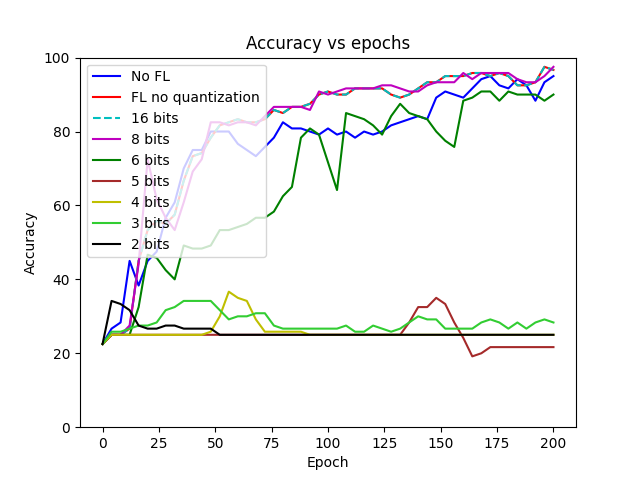
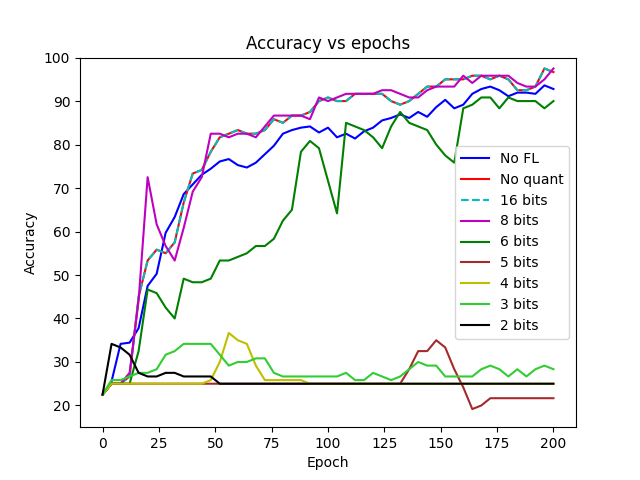
New experiments

diff --git a/main.py b/main.py
@@ -3,9 +3,7 @@ import random
 from argparse import Namespace
 
 import torch
-import torch.nn.functional as F
 import torch.optim as optim
-import torchaudio
 from torch.utils.data import Subset
 from torchvision import datasets, transforms
 
@@ -19,7 +17,8 @@ from torchaudio.transforms import MFCC
 from collections.abc import Callable
 from typing import TypeAlias
 
-BitsFn: TypeAlias = str | Callable[[int, int], int|None]
+BitsFn: TypeAlias = str | Callable[[int, int], int | None]
+
 
 class Experiment:
     def __init__(self, args: Namespace):
@@ -51,12 +50,15 @@ class Experiment:
         # self.fl_experiment_batches = 30
 
         self.net = KWSNet
-        transform = transforms.Compose([
-            MFCC(n_mfcc=13, melkwargs={"n_mels": 32}),
+        self.dataset_transform = transforms.Compose([
+            MFCC(n_mfcc=13, melkwargs={
+                "n_mels": 32,
+                "hop_length": 200  # Default 200, increases accuracy but requires a larger input layer
+            }),
             lambda x: x.flatten(),
         ])
-        self.train_dataset = KWSDataset(True, transform=transform)
-        test_dataset = KWSDataset(False, transform=transform)
+        self.train_dataset_iid = KWSDataset(True, transform=self.dataset_transform, iid=True)
+        test_dataset = KWSDataset(False, transform=self.dataset_transform)
         self.loss_fn = torch.nn.CrossEntropyLoss()
         self.accuracy_loss_experiment_samples = 200
         self.samples_per_fl_batch = 4
@@ -79,9 +81,11 @@ class Experiment:
         np.random.set_state(self.numpy_state)
         random.setstate(self.random_state)
 
-    def train(self, model, rng, optimizer):
-        train_loader = torch.utils.data.DataLoader(Subset(self.train_dataset, list(rng)),
-                                                   **self.train_kwargs)  # Max 60k
+    def train(self, model, rng, optimizer, dataset):
+        train_loader = torch.utils.data.DataLoader(
+            Subset(dataset, list(rng)),
+            **self.train_kwargs
+        )
 
         model.train()
         for batch_idx, (data, target) in enumerate(train_loader):
@@ -153,7 +157,7 @@ class Experiment:
         self.reset_state()
 
         models, optimizers = self.init_models(1, {'hl_size': 20})
-        self.train(models[0], range(0, self.accuracy_loss_experiment_samples), optimizers[0])
+        self.train(models[0], range(0, self.accuracy_loss_experiment_samples), optimizers[0], self.train_dataset_iid)
         # original_accuracy = self.test(models[0])
 
         original_weights = models[0].get_flat_weights()
@@ -173,7 +177,8 @@ class Experiment:
         plt.title("Accuracy drop vs quantization bits")
         plt.savefig(f"plots/accuracy_loss.png")
 
-    def batch_training(self, models, optimizers, send_bits_fn: BitsFn, do_fl: bool = True, receive_bits_fn: BitsFn|str = 'unset'):
+    def batch_training(self, models, optimizers, send_bits_fn: BitsFn, dataset, do_fl: bool = True,
+                       receive_bits_fn: BitsFn | str = 'unset'):
         if receive_bits_fn == 'unset': receive_bits_fn = send_bits_fn
 
         x = [0]
@@ -183,11 +188,16 @@ class Experiment:
             for model_index in range(len(models)):
                 first_sample = start + (self.samples_per_fl_batch * model_index)
                 last_sample = start + (self.samples_per_fl_batch * (model_index + 1))
-                self.train(models[model_index], range(first_sample, last_sample), optimizers[model_index])
+                self.train(models[model_index], range(first_sample, last_sample), optimizers[model_index], dataset)
 
             x.append((batch_index + 1) * self.samples_per_fl_batch)
-            if do_fl: self.do_fl(models, send_bits_fn(batch_index, self.fl_batches), receive_bits_fn(batch_index, self.fl_batches))
-            accuracies.append(self.test(models[0]))
+            if do_fl:
+                self.do_fl(models, send_bits_fn(batch_index, self.fl_batches),
+                           receive_bits_fn(batch_index, self.fl_batches))
+                accuracy = self.test(models[0])
+            else:
+                accuracy = sum([self.test(model) for model in models]) / len(models)
+            accuracies.append(accuracy)
 
         return x, accuracies
 
@@ -195,12 +205,12 @@ class Experiment:
         plt.figure()
         plt.xlabel("Epoch")
         plt.ylabel("Accuracy")
-        plt.ylim(0, 100)
+        plt.ylim(top=100, bottom=15)
         plt.title("Accuracy vs epochs")
 
         options = [
             {'do_fl': False, 'bits': None, 'label': 'No FL', 'color': 'b'},
-            {'do_fl': True, 'bits': None, 'label': 'FL no quantization', 'color': 'r'},
+            {'do_fl': True, 'bits': None, 'label': 'No quant', 'color': 'r'},
             {'do_fl': True, 'bits': 16, 'label': '16 bits', 'color': 'c--'},
             {'do_fl': True, 'bits': 8, 'label': '8 bits', 'color': 'm'},
             {'do_fl': True, 'bits': 6, 'label': '6 bits', 'color': 'g'},
@@ -213,10 +223,10 @@ class Experiment:
         for case in options:
             self.reset_state()
             models, optimizers = self.init_models(num_models, {'hl_size': 20})
-            x, accuracies = self.batch_training(models, optimizers, lambda i, nb: case['bits'], do_fl=case['do_fl'])
+            x, accuracies = self.batch_training(models, optimizers, lambda i, nb: case['bits'], self.train_dataset_iid, do_fl=case['do_fl'])
             plt.plot(x, accuracies, case['color'], label=case['label'])
 
-        plt.legend()
+        plt.legend(loc='center right')
         plt.savefig(f"plots/accuracy_vs_epochs_vs_quant_bits.png")
 
     def early_vs_late_quantization(self, num_models: int, low_bits: int, high_bits: int):
@@ -227,15 +237,15 @@ class Experiment:
         plt.title("Early vs late quantization")
 
         options = [
-            {'label': 'Fixed low quantization', 'bits': lambda i, nb: low_bits, 'color': 'r--'},
-            {'label': 'Fixed high quantization', 'bits': lambda i, nb: high_bits, 'color': 'g--'},
-            {'label': f"Late quantization ({high_bits} → {low_bits})", 'bits': lambda i, nb: high_bits if i <= nb / 3 else low_bits, 'color': 'b-'},
+            {'label': 'Fixed high quantization (6)', 'bits': lambda i, nb: low_bits, 'color': 'r--'},
+            {'label': 'Fixed low quantization (8)', 'bits': lambda i, nb: high_bits, 'color': 'g--'},
             {'label': f"Early quantization ({low_bits} → {high_bits})", 'bits': lambda i, nb: low_bits if i <= nb / 3 else high_bits, 'color': 'm-'},
+            {'label': f"Late quantization ({high_bits} → {low_bits})", 'bits': lambda i, nb: high_bits if i <= nb / 3 else low_bits, 'color': 'b-'},
         ]
         for case in options:
             self.reset_state()
             models, optimizers = self.init_models(num_models, {'hl_size': 20})
-            x, accuracies = self.batch_training(models, optimizers, case['bits'])
+            x, accuracies = self.batch_training(models, optimizers, case['bits'], self.train_dataset_iid)
             plt.plot(x, accuracies, case['color'], label=case['label'])
 
         plt.legend()
@@ -244,7 +254,7 @@ class Experiment:
     def quantized_weights_histogram_experiment(self, num_models):
         self.reset_state()
         models, optimizers = self.init_models(num_models, {'hl_size': 20})
-        self.batch_training(models, optimizers, lambda i, nb: None)
+        self.batch_training(models, optimizers, lambda i, nb: None, self.train_dataset_iid)
 
         fig, axs = plt.subplots(1, 3, tight_layout=True, figsize=(9, 3))
 
@@ -263,13 +273,15 @@ class Experiment:
         plt.title("Symmetric vs Asymmetric quantization")
 
         options = [
-            {'label': 'Symmetric quantization', 'send_bits': 8, 'receive_bits': 8, 'color': 'r--'},
-            {'label': 'Asymmetric quantization', 'send_bits': 8, 'receive_bits': 6, 'color': 'g--'},
+            {'label': 'Symmetric quantization (8)', 'send_bits': 8, 'receive_bits': 8, 'color': 'r--'},
+            {'label': 'Asymmetric quantization (8 → 6)', 'send_bits': 8, 'receive_bits': 6, 'color': 'g--'},
+            {'label': 'Asymmetric quantization (6 → 8)', 'send_bits': 6, 'receive_bits': 8, 'color': 'b--'},
         ]
         for case in options:
             self.reset_state()
             models, optimizers = self.init_models(num_models, {'hl_size': 20})
-            x, accuracies = self.batch_training(models, optimizers, lambda i, nb: case['send_bits'], receive_bits_fn=lambda i, nb: case['receive_bits'])
+            x, accuracies = self.batch_training(models, optimizers, lambda i, nb: case['send_bits'], self.train_dataset_iid,
+                                                receive_bits_fn=lambda i, nb: case['receive_bits'])
             plt.plot(x, accuracies, case['color'], label=case['label'])
         plt.legend()
         plt.savefig(f"plots/asymmetric_quantization.png")
@@ -283,15 +295,71 @@ class Experiment:
 
         options = [
             {'label': 'Fixed 8-bit quantization', 'bits': lambda i, nb: 8, 'color': 'r--'},
-            {'label': 'Random quantization', 'bits': lambda i, nb: random.randint(5, 12), 'color': 'g--'},
+            {'label': 'Random quantization (5-8 bits)', 'bits': lambda i, nb: random.randint(5, 8), 'color': 'g'},
+            {'label': 'Random quantization (6-8 bits)', 'bits': lambda i, nb: random.randint(6, 8), 'color': 'b'},
         ]
         for case in options:
             self.reset_state()
             models, optimizers = self.init_models(num_models, {'hl_size': 20})
-            x, accuracies = self.batch_training(models, optimizers, case['bits'])
+            x, accuracies = self.batch_training(models, optimizers, case['bits'], self.train_dataset_iid)
             plt.plot(x, accuracies, case['color'], label=case['label'])
         plt.legend()
         plt.savefig(f"plots/random_quantization.png")
+
+    def nn_size_experiment(self, num_models: int):
+        plt.figure()
+        plt.ylabel("Accuracy")
+        plt.ylim(0, 100)
+        plt.title("Final accuracy depending on HL size and quantization bits")
+
+        for y in range(0, 100, 5):
+            plt.axhline(y=y, color="#EEE", zorder=1)
+
+        quantization_bits = [16, 8, 6, 5]
+        hl_sizes = [10, 15, 20, 25]
+
+        width, x = 0.15, np.arange(len(quantization_bits))
+        for i, hl_size in enumerate(hl_sizes):
+            accuracies = []
+            for bits in quantization_bits:
+                self.reset_state()
+                models, optimizers = self.init_models(num_models, {'hl_size': hl_size})
+                _, acc = self.batch_training(models, optimizers, lambda i, nb: bits, self.train_dataset_iid)
+                accuracies.append(acc[-1])
+            plt.bar(x + (width * i), accuracies, width, label=f"{hl_size} neurons", zorder=2)
+
+        plt.xticks(x + (width * len(hl_sizes) / 2), [f"{bits} bits" for bits in quantization_bits])
+
+        plt.legend(loc='upper right')
+        plt.savefig(f"plots/nn_size.png")
+
+    def iid_vs_non_experiment(self, num_models: int):
+        plt.figure()
+        plt.xlabel("Epoch")
+        plt.ylabel("Accuracy")
+        plt.ylim(top=100, bottom=15)
+        plt.title("Accuracy vs epochs")
+
+        train_dataset_non_iid_2 = KWSDataset(True, transform=self.dataset_transform, iid=2)
+        train_dataset_non_iid_3 = KWSDataset(True, transform=self.dataset_transform, iid=3)
+        train_dataset_non_iid_4 = KWSDataset(True, transform=self.dataset_transform, iid=4)
+
+        options = [
+            {'dataset': self.train_dataset_iid, 'bits': None, 'label': 'IID', 'color': 'r--'},
+            {'dataset': train_dataset_non_iid_2, 'bits': None, 'label': 'Non-IID 2', 'color': 'g'},
+            {'dataset': train_dataset_non_iid_3, 'bits': None, 'label': 'Non-IID 3', 'color': 'b'},
+            {'dataset': train_dataset_non_iid_4, 'bits': None, 'label': 'Non-IID 4', 'color': 'm'},
+        ]
+
+        for case in options:
+            self.reset_state()
+            models, optimizers = self.init_models(num_models, {'hl_size': 20})
+            x, accuracies = self.batch_training(models, optimizers, lambda i, nb: 8, case['dataset'])
+            plt.plot(x, accuracies, case['color'], label=case['label'])
+
+        plt.legend()
+        plt.savefig(f"plots/iid_vs_non.png")
+
 
 def main():
     parser = argparse.ArgumentParser()
@@ -310,6 +378,9 @@ def main():
     experiment.quantized_weights_histogram_experiment(3)
     experiment.asymmetric_quantization_experiment(3)
     experiment.random_quantization_experiment(3)
+    experiment.nn_size_experiment(3)
+    experiment.iid_vs_non_experiment(3)
+
 
 if __name__ == '__main__':
     main()

diff --git a/KWSDataset.py b/KWSDataset.py
@@ -1,7 +1,6 @@
 import json
 import os
 import random
-
 from torch import Tensor
 from torch.utils.data import Dataset
 
@@ -10,32 +9,34 @@ class KWSDataset(Dataset):
     keywords = ["montserrat", "pedraforca", "vermell", "blau"]
     samples_folder = "./data/keywords"
     test_samples = 120
+    samples_per_keyword = 180
 
-    def __init__(self, train: bool, transform=None):
-        files = []
-        for i, word in enumerate(self.keywords):
+    # iid: When 1, samples will be iid. Larger numbers use the same keyword as many times.
+    def __init__(self, train: bool, transform=None, iid: int = 1):
+        self.transform = transform
+
+        num_files = iid
+
+        all_samples = [None] * (len(self.keywords) * self.samples_per_keyword)
+        for word_i, word in enumerate(self.keywords):
             file_list = os.listdir(f"{self.samples_folder}/{word}")
             random.shuffle(file_list)
-            files.append(list(map(lambda f: f"{word}/{f}", file_list)))
-
-        all_samples = list(sum(zip(*files), ()))
+            for file_i in range(0, len(file_list), num_files):
+                for num_file in range(num_files):
+                    index = (word_i * num_files) + (file_i * len(self.keywords)) + num_file
+                    all_samples[index] = f"{word}/{file_list[file_i + num_file]}"
 
         begin = 0 if train else len(all_samples) - self.test_samples
         end = len(all_samples) - self.test_samples if train else len(all_samples)
         self.samples = all_samples[begin:end] if train else all_samples[begin:end]
-
-        self.transform = transform
 
         # all_features = []
         # for i in range(0, self.__len__()):
         #     data = self.__get_raw_values__(i)
         #     all_features.append(data) # Remove batch dim
         # all_features_tensor = torch.stack(all_features)
-        #
-        # self.mean = all_features_tensor.mean()
-        # self.std = all_features_tensor.std()
-        self.mean = -0.7344476580619812
-        self.std = 2404.997314453125
+        self.mean = -0.7344476580619812  # all_features_tensor.mean()
+        self.std = 2404.997314453125  # all_features_tensor.std()
 
     def __len__(self):
         return len(self.samples)

diff --git a/Nets.py b/Nets.py
@@ -43,7 +43,7 @@ class MnistNet(Net):
 
 
 class KWSNet(Net):
-    def __init__(self, hl_size: int):
+    def __init__(self, hl_size: int = 20):
         super(KWSNet, self).__init__()
         self.fc1 = nn.Linear(1053, hl_size)
         self.fc2 = nn.Linear(hl_size, 4)
